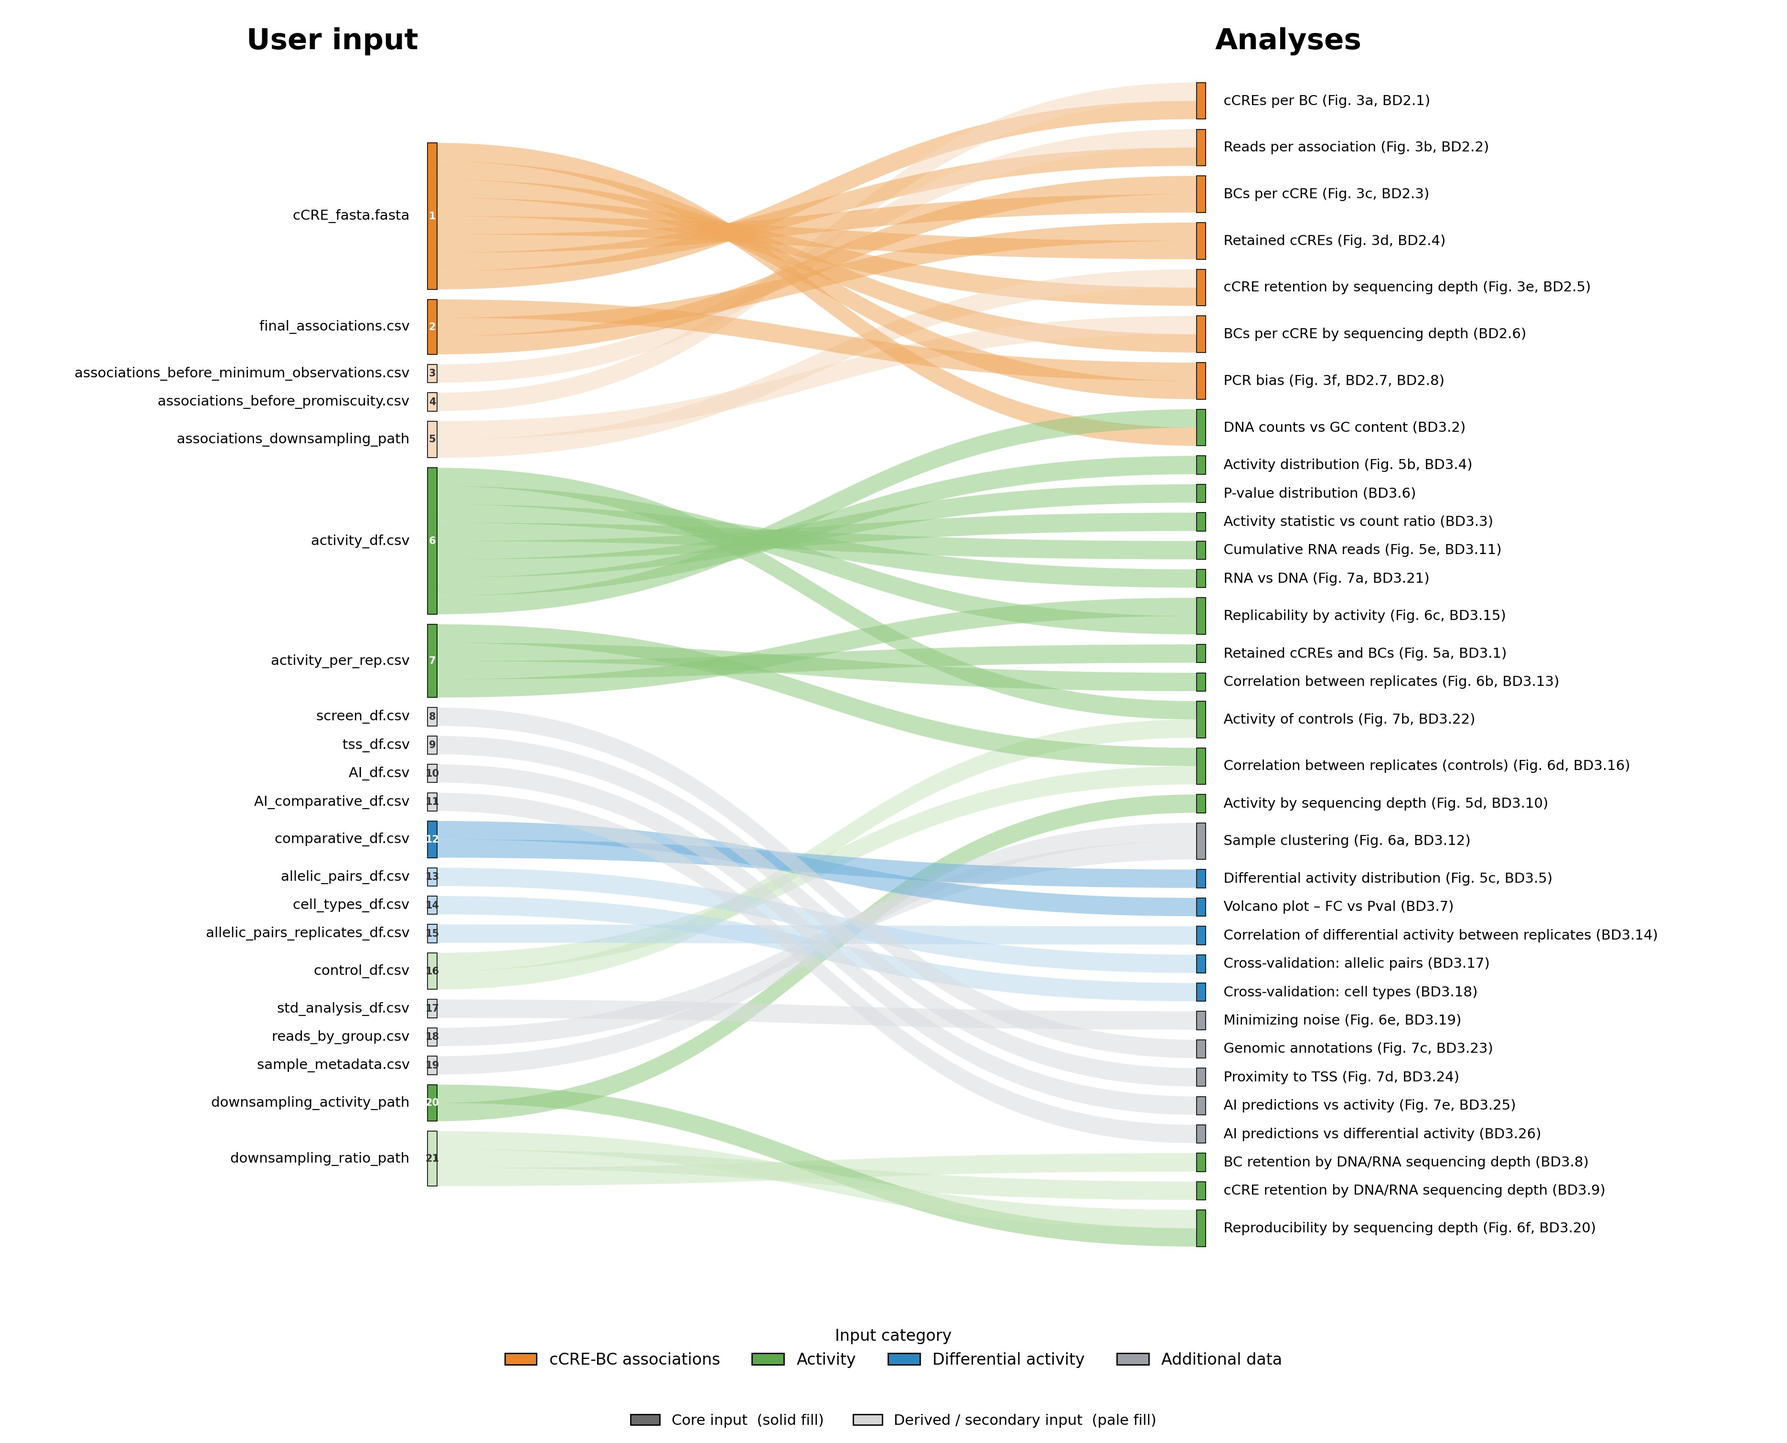
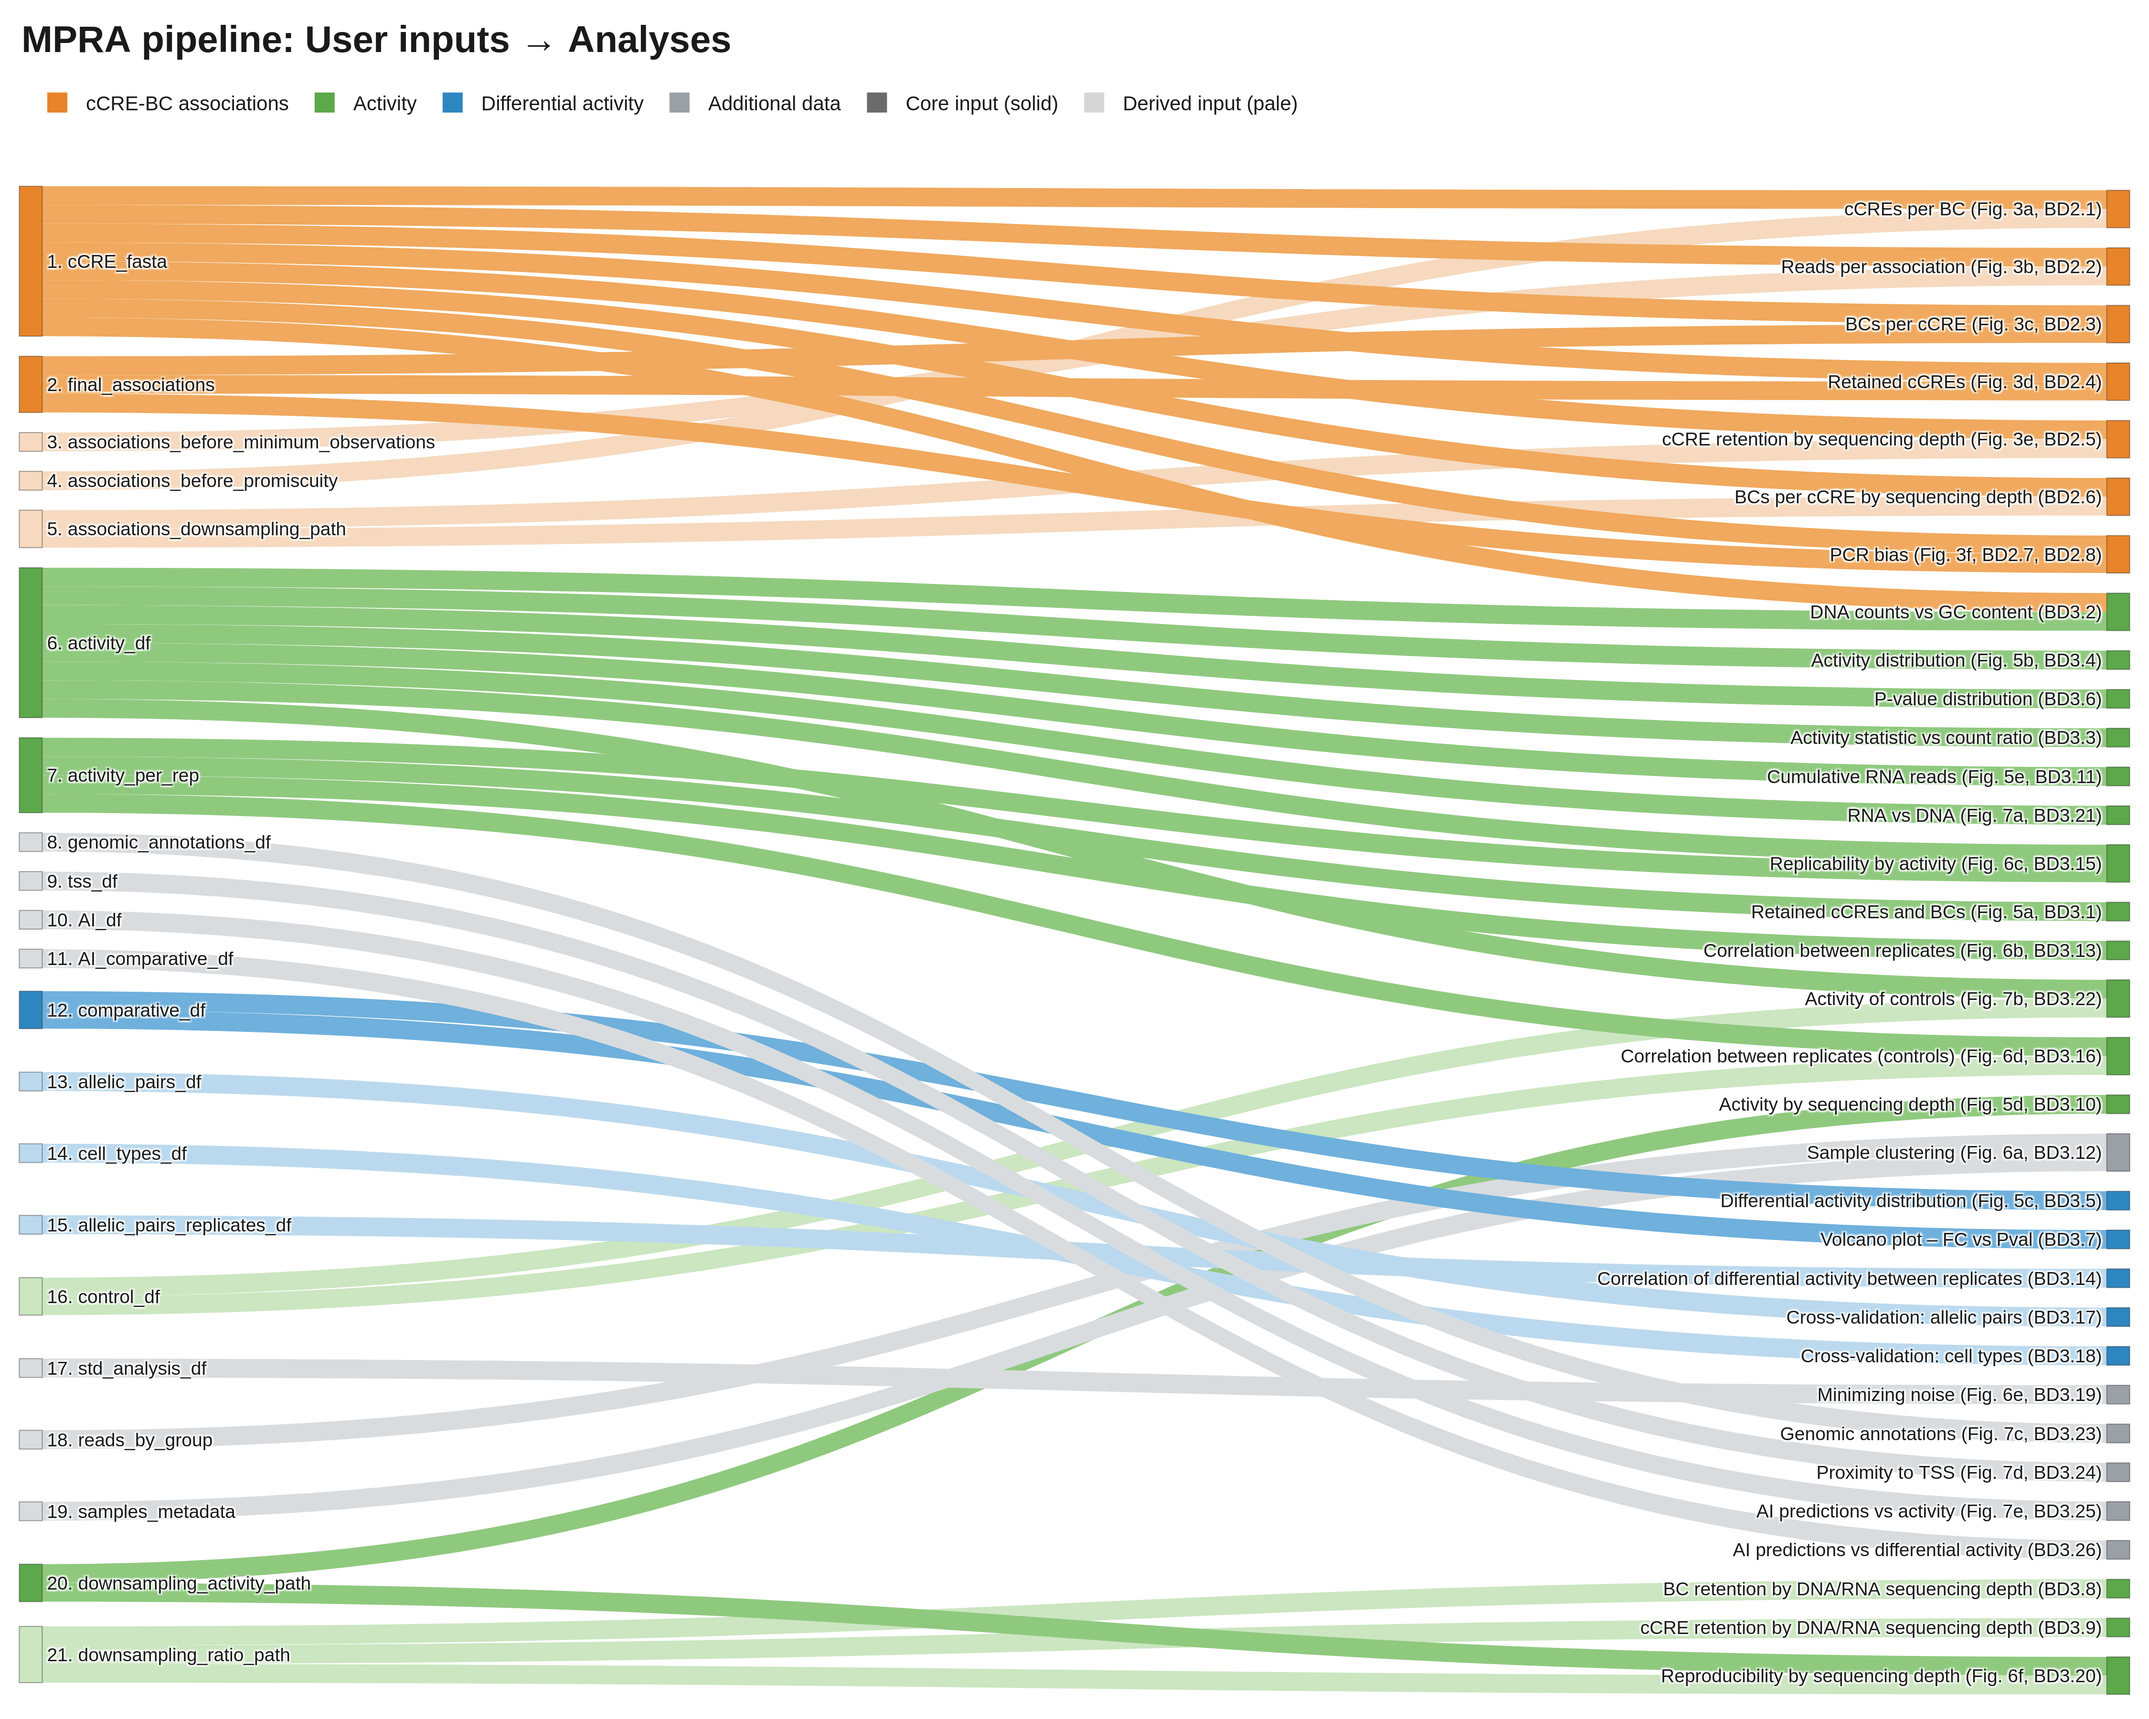
New input analysis fig

diff --git a/INPUT_FORMATS.md b/INPUT_FORMATS.md
@@ -42,11 +42,9 @@ The `file` column of the activity manifest must be one of:
 
 ### Which inputs feed which analyses
 
-The diagram below maps each input file (left) to the QC analyses and figures it contributes to (right). Inputs are coloured by category — cCRE–BC associations, activity, differential activity, and additional data — and solid versus pale fills distinguish core inputs from derived/secondary ones.
+The Sankey diagram below maps each input file (left, numbered 1–21) to the QC analyses and figures it contributes to (right). Inputs are coloured by category — cCRE–BC associations, activity, differential activity, and additional data — and solid versus pale fills distinguish core inputs from derived or secondary ones. Input labels use the canonical file-type names defined in this document.
 
-![Sankey diagram mapping each user input file to the QC analyses and figures it feeds into, grouped by input category.](figures/input_analysis_sankey.png)
-
-> **Naming note:** the diagram uses a couple of display filenames that differ slightly from the official file-type names used in this document and the schemas: `screen_df` corresponds to `genomic_annotations_df`, and `sample_metadata` corresponds to `samples_metadata`. The file-type names above are the authoritative ones.
+![Sankey diagram mapping each numbered user input file to the QC analyses and figures it feeds into, coloured by input category.](figures/input_analysis_sankey.png)
 
 ## Configuration file
 
